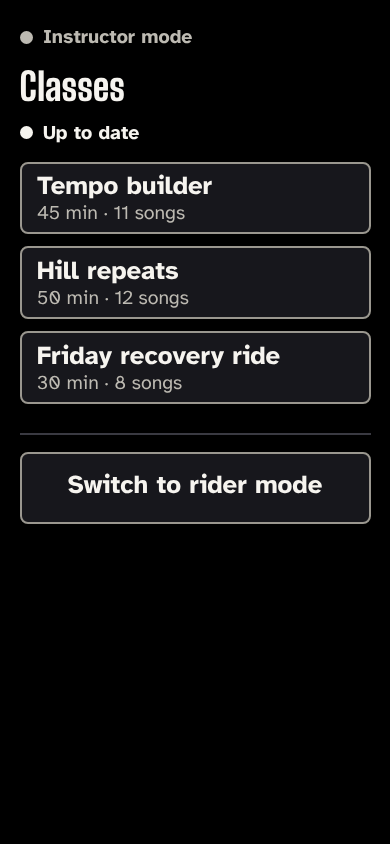
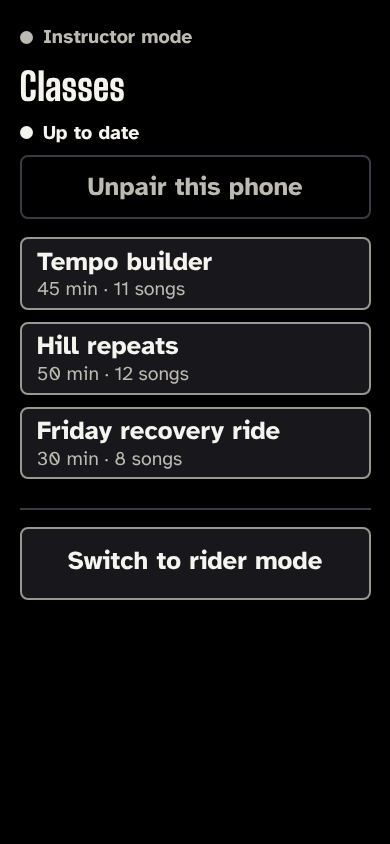
docs(design): spec as built for the pairing plates, Pair again and Unpair this phone
Record the screens #651 built: the revoked and no-server plates, the Pair again plate, the Unpair this phone key and its native question, the A8 note, and the mock-ups app-instructor-start-expired and app-unpair-ask.

Claude-Session: https://claude.ai/code/session_01LLHBh3xazuKpSV1STS2mcZ

diff --git a/docs/design/mockups/app-pages.js b/docs/design/mockups/app-pages.js
@@ -47,13 +47,25 @@ add('no-lock', 'app-modes.md', 'App: a screen lock is needed', 'State: "Switch t
 
 const CLASSES = [['Tempo builder', '45 min · 11 songs'], ['Hill repeats', '50 min · 12 songs'], ['Friday recovery ride', '30 min · 8 songs']];
 const row = ([t, f]) => `<button class="key row" data-action="open_class"><span class="kl" data-tier="minor" data-lines="2">${A.esc(t)}</span><span class="kh" data-tier="label">${A.esc(f)}</span></button>`;
-add('instructor-start', 'app-modes.md', 'App: instructor mode', 'State: instructor mode after the screen lock, the class list (class-list.md, laid out for the phone) and the mode strip. No strip while a class is open.',
-  page(mode('Instructor mode') + h1('Classes') + `<div class="status">${T('label', 'Up to date', 1, ' class="ok"')}</div>`,
+// "Unpair this phone": an outlined key (64 px high, words at --c-minor) on the status row.
+const unpairKey = '<button class="key quiet" data-action="unpair"><span class="kl" data-tier="minor" data-lines="2">Unpair this phone</span></button>';
+add('instructor-start', 'app-modes.md', 'App: instructor mode', 'State: instructor mode after the screen lock, the class list (class-list.md, laid out for the phone) and the mode strip. "Unpair this phone" is on the status row. No strip while a class is open.',
+  page(mode('Instructor mode') + h1('Classes') + `<div class="status">${T('label', 'Up to date', 1, ' class="ok"')}${unpairKey}</div>`,
+    `<div class="rows">${CLASSES.map(row).join('')}</div>` + strip('Switch to rider mode')));
+
+// The pairing ran out (class-list.md "Pairing ran out"): the plate stands in for the status line.
+add('instructor-start-expired', 'app-modes.md', 'App: instructor mode, pairing ran out', 'State: the saved classes stay; the server said the token expired. The plate carries the words and "Pair again"; the status line is hidden. At 360x640 with three classes the page may scroll (A8).',
+  page(mode('Instructor mode') + h1('Classes') + `<div class="status">${unpairKey}</div>`
+    + plate('The pairing has run out', 'Pair again to get new and changed classes. Saved classes still play.').replace(/<\/div>$/, key('pair_again', 'Pair again') + '</div>'),
     `<div class="rows">${CLASSES.map(row).join('')}</div>` + strip('Switch to rider mode')));
 
 add('to-rider-ask', 'app-modes.md', 'App: switch to rider mode?', 'State: "Switch to rider mode" pressed in instructor mode. Native question; "Stay" has the focus. Back or no answer is "Stay".',
   native(page(mode('Instructor mode') + h1('Switch to rider mode?') + p('The class list closes and the music is no longer followed. Coming back to instructor mode needs your screen lock.'),
     duo(key('stay', 'Stay', { main: true }), key('switch_mode', 'Switch')).replace('class="key main"', 'class="key main focus"'))));
+
+add('unpair-ask', 'app-modes.md', 'App: unpair this phone?', 'State: "Unpair this phone" pressed in instructor mode. Native question; "Stay" has the focus. Back or leaving the app is "Stay". "Unpair" removes the saved classes and goes to the switching screen, then rider mode.',
+  native(page(mode('Instructor mode') + h1('Unpair this phone?') + p('The classes saved on this phone are removed and instructor mode closes. Teaching from it again needs a new pairing.'),
+    duo(key('stay', 'Stay', { main: true }), key('unpair', 'Unpair')).replace('class="key main"', 'class="key main focus"'))));
 
 add('switching', 'app-modes.md', 'App: switching to rider mode', 'State: "Switch" pressed. Native screen while the follower stops, the connections close and the web view reloads fresh (ADR 0011 section 1). Under a second.',
   native(page(mode('Rider mode') + h1('Switching to rider mode') + work('Closing instructor mode'), '')));

diff --git a/docs/design/mockups/app-instructor-start.html b/docs/design/mockups/app-instructor-start.html
@@ -10,7 +10,7 @@
 <link rel="stylesheet" href="app.css">
 </head>
 <body class="app">
-<!-- State: instructor mode after the screen lock, the class list (class-list.md, laid out for the phone) and the mode strip. No strip while a class is open.  Spec: docs/design/app-modes.md. Generated by app-pages.js: edit that, not this file. -->
-<main class="page"><div class="lead"><p class="mode"><span data-tier="label" data-lines="1">Instructor mode</span></p><h1><span data-tier="value" data-lines="2">Classes</span></h1><div class="status"><span data-tier="label" data-lines="1" class="ok">Up to date</span></div></div><div class="act"><div class="rows"><button class="key row" data-action="open_class"><span class="kl" data-tier="minor" data-lines="2">Tempo builder</span><span class="kh" data-tier="label">45 min · 11 songs</span></button><button class="key row" data-action="open_class"><span class="kl" data-tier="minor" data-lines="2">Hill repeats</span><span class="kh" data-tier="label">50 min · 12 songs</span></button><button class="key row" data-action="open_class"><span class="kl" data-tier="minor" data-lines="2">Friday recovery ride</span><span class="kh" data-tier="label">30 min · 8 songs</span></button></div><nav class="strip" aria-label="Mode"><button class="key full" data-action="switch_mode"><span class="kl" data-tier="minor" data-lines="2">Switch to rider mode</span></button></nav></div></main>
+<!-- State: instructor mode after the screen lock, the class list (class-list.md, laid out for the phone) and the mode strip. "Unpair this phone" is on the status row. No strip while a class is open.  Spec: docs/design/app-modes.md. Generated by app-pages.js: edit that, not this file. -->
+<main class="page"><div class="lead"><p class="mode"><span data-tier="label" data-lines="1">Instructor mode</span></p><h1><span data-tier="value" data-lines="2">Classes</span></h1><div class="status"><span data-tier="label" data-lines="1" class="ok">Up to date</span><button class="key quiet" data-action="unpair"><span class="kl" data-tier="minor" data-lines="2">Unpair this phone</span></button></div></div><div class="act"><div class="rows"><button class="key row" data-action="open_class"><span class="kl" data-tier="minor" data-lines="2">Tempo builder</span><span class="kh" data-tier="label">45 min · 11 songs</span></button><button class="key row" data-action="open_class"><span class="kl" data-tier="minor" data-lines="2">Hill repeats</span><span class="kh" data-tier="label">50 min · 12 songs</span></button><button class="key row" data-action="open_class"><span class="kl" data-tier="minor" data-lines="2">Friday recovery ride</span><span class="kh" data-tier="label">30 min · 8 songs</span></button></div><nav class="strip" aria-label="Mode"><button class="key full" data-action="switch_mode"><span class="kl" data-tier="minor" data-lines="2">Switch to rider mode</span></button></nav></div></main>
 </body>
 </html>

diff --git a/docs/design/mockups/app-instructor-start-expired.html b/docs/design/mockups/app-instructor-start-expired.html
@@ -1,0 +1,16 @@
+<!doctype html>
+<html lang="en">
+<head>
+<meta charset="utf-8">
+<meta name="viewport" content="width=device-width, initial-scale=1, viewport-fit=cover">
+<title>App: instructor mode, pairing ran out</title>
+<link rel="stylesheet" href="tokens.css">
+<link rel="stylesheet" href="companion.css">
+<link rel="stylesheet" href="rider.css">
+<link rel="stylesheet" href="app.css">
+</head>
+<body class="app">
+<!-- State: the saved classes stay; the server said the token expired. The plate carries the words and "Pair again"; the status line is hidden. At 360x640 with three classes the page may scroll (A8).  Spec: docs/design/app-modes.md. Generated by app-pages.js: edit that, not this file. -->
+<main class="page"><div class="lead"><p class="mode"><span data-tier="label" data-lines="1">Instructor mode</span></p><h1><span data-tier="value" data-lines="2">Classes</span></h1><div class="status"><button class="key quiet" data-action="unpair"><span class="kl" data-tier="minor" data-lines="2">Unpair this phone</span></button></div><div class="plate" role="alert"><span data-tier="minor" data-lines="2" class="h">The pairing has run out</span><span data-tier="label" data-lines="4" class="dt">Pair again to get new and changed classes. Saved classes still play.</span><button class="key" data-action="pair_again"><span class="kl" data-tier="minor" data-lines="2">Pair again</span></button></div></div><div class="act"><div class="rows"><button class="key row" data-action="open_class"><span class="kl" data-tier="minor" data-lines="2">Tempo builder</span><span class="kh" data-tier="label">45 min · 11 songs</span></button><button class="key row" data-action="open_class"><span class="kl" data-tier="minor" data-lines="2">Hill repeats</span><span class="kh" data-tier="label">50 min · 12 songs</span></button><button class="key row" data-action="open_class"><span class="kl" data-tier="minor" data-lines="2">Friday recovery ride</span><span class="kh" data-tier="label">30 min · 8 songs</span></button></div><nav class="strip" aria-label="Mode"><button class="key full" data-action="switch_mode"><span class="kl" data-tier="minor" data-lines="2">Switch to rider mode</span></button></nav></div></main>
+</body>
+</html>

diff --git a/docs/design/mockups/app-unpair-ask.html b/docs/design/mockups/app-unpair-ask.html
@@ -1,0 +1,16 @@
+<!doctype html>
+<html lang="en">
+<head>
+<meta charset="utf-8">
+<meta name="viewport" content="width=device-width, initial-scale=1, viewport-fit=cover">
+<title>App: unpair this phone?</title>
+<link rel="stylesheet" href="tokens.css">
+<link rel="stylesheet" href="companion.css">
+<link rel="stylesheet" href="rider.css">
+<link rel="stylesheet" href="app.css">
+</head>
+<body class="app">
+<!-- State: "Unpair this phone" pressed in instructor mode. Native question; "Stay" has the focus. Back or leaving the app is "Stay". "Unpair" removes the saved classes and goes to the switching screen, then rider mode.  Spec: docs/design/app-modes.md. Generated by app-pages.js: edit that, not this file. -->
+<main data-layer="native" class="page"><div class="lead"><p class="mode"><span data-tier="label" data-lines="1">Instructor mode</span></p><h1><span data-tier="value" data-lines="2">Unpair this phone?</span></h1><p><span data-tier="minor" data-lines="6">The classes saved on this phone are removed and instructor mode closes. Teaching from it again needs a new pairing.</span></p></div><div class="act"><div class="duo"><button class="key main focus" data-action="stay"><span class="kl" data-tier="minor" data-lines="2">Stay</span></button><button class="key" data-action="unpair"><span class="kl" data-tier="minor" data-lines="2">Unpair</span></button></div></div></main>
+</body>
+</html>

diff --git a/docs/design/mockups/app.css b/docs/design/mockups/app.css
@@ -42,6 +42,11 @@
 .status { display: flex; align-items: center; gap: 0.6em; font-size: var(--c-label); }
 .status .ok { color: var(--light-1); font-weight: 700; display: inline-flex; align-items: center; gap: 0.5em; }
 .status .ok::before { content: ""; width: 0.7em; height: 0.7em; border-radius: 50%; background: var(--light-1); flex: none; }
+/* "Unpair this phone": an outlined key, at least 64 px high, words at --c-minor. Upright it has its
+   own full-width line; sideways it sits at the end of the status row. */
+.status .key.quiet { margin-left: auto; flex: none; width: auto; white-space: nowrap; min-height: 64px; padding: 0 1em; background: transparent; border-color: var(--stage-line); }
+@media (orientation: portrait) { .status { flex-wrap: wrap; } .status .key.quiet { flex: 1 0 100%; margin-left: 0; } }
+.status .key.quiet .kl { font-size: var(--c-minor); font-weight: 700; color: var(--light-2); }
 /* A status line in the minor tier (pair-done). */
 .status.m { font-size: var(--c-minor); }
 

diff --git a/docs/design/mockups/app-checks.js b/docs/design/mockups/app-checks.js
@@ -25,7 +25,7 @@ function pageChecks(arg) {
   const KEY_MIN = 64, KEY_GAP = 12;
   // Every action the app's screens have. None sends an equipment command (rule 2); the rider's
   // send nothing but the join (ADR 0007 section 1). Nothing scans or opens the camera (rule 12).
-  const ACTIONS = ['switch_mode', 'stay', 'set_lock', 'stay_rider', 'open_class', 'cancel', 'open_site', 'continue', 'pair_again',
+  const ACTIONS = ['switch_mode', 'stay', 'set_lock', 'stay_rider', 'open_class', 'cancel', 'open_site', 'continue', 'pair_again', 'unpair',
     'open_setting', 'not_now', 'follow', 'join', 'remember', 'leave', 'keep_riding', 'start', 'pause', 'resume', 'previous', 'next', 'end'];
   const BANNED = /scan|camera|qr/i;
   const rows = [];

diff --git a/docs/design/app-modes.md b/docs/design/app-modes.md
@@ -3,7 +3,7 @@
 Status: proposed in the pull request for issue #628, for [ADR 0011](../adr/0011-the-phone-app-is-built-with-capacitor.md)
 section 1 (one app, two modes). Overview, sizes and checks: [app.md](app.md). Mock-ups:
 `mockups/app-rider-start*.html`, `app-lock-cancelled.html`, `app-no-lock.html`, `app-instructor-start.html`,
-`app-to-rider-ask.html`, `app-switching.html`, `app-switching-instructor.html`, and their `-390x844.png` and `-844x390.png` shots.
+`app-instructor-start-expired.html`, `app-to-rider-ask.html`, `app-unpair-ask.html`, `app-switching.html`, `app-switching-instructor.html`, and their `-390x844.png` and `-844x390.png` shots.
 
 ## Purpose
 
@@ -50,8 +50,22 @@ are long are stacked, the main one first.
 | Screen lock cancelled, failed or locked out | `app-lock-cancelled` | Back on the rider start page, a white plate "Still in rider mode / Instructor mode opens only after your screen lock." Nothing changed. Android's own prompt already says when the screen lock is locked for now, and returns the same answer as a cancel, so a lockout shows this plate too (there is no separate "Too many tries" plate). The plate goes when the user types or presses anything |
 | No screen lock on a paired phone | `app-no-lock` | Native screen. Title "A screen lock is needed", why, and a note that the classes and the pairing stay locked away on the phone. Keys "Set a screen lock" (opens Android's security settings) and "Stay in rider mode". Coming back with a lock set opens the screen-lock prompt; coming back without one shows this screen again |
 | Instructor mode | `app-instructor-start` | Mode tag, "Classes", the status line ("Up to date", or class-list.md's other sync states), one key per class (title, then length and song count), the strip "Switch to rider mode" |
+| Pairing ran out | `app-instructor-start-expired` | The list as above, with a white plate in place of the status line: "The pairing has run out / Pair again to get new and changed classes. Saved classes still play." and its key "Pair again" (main wording of class-list.md, no e-mail on the phone). The status line is **hidden while a plate shows**. "Pair again" opens the native pairing screens (app-pairing.md); on success the list is read anew. Saved classes still open |
+| Unpair this phone? | `app-unpair-ask` | Native question, title "Unpair this phone?", text "The classes saved on this phone are removed and instructor mode closes. Teaching from it again needs a new pairing." Keys "Stay" (main, has the focus) and "Unpair". Back, or leaving the app, is "Stay" and changes nothing. "Unpair": the token and saved classes are deleted here first, then the server is asked to drop the record; the result is the switching screen to rider mode (`app-switching`). "Stay": back on the class list as it was |
 | Switch to rider mode? | `app-to-rider-ask` | Native question. "The class list closes and the music is no longer followed. Coming back to instructor mode needs your screen lock." Keys "Stay" (main, has the focus) and "Switch". Back, or leaving the app, is "Stay" |
 | Switching | `app-switching`, `app-switching-instructor` | Native, under a second: mode tag "Rider mode", "Switching to rider mode", the working marker with "Closing instructor mode". Native code stops the follower, closes every connection, drops the instructor state and reloads the page fresh; only then the rider start page shows (ADR 0011 section 1). To instructor mode, after the screen lock passed: mode tag "Instructor mode", "Switching to instructor mode", the working marker with "Closing rider mode"; native code drops the rider's numbers and the web view's storage, then loads the class list fresh. The same layout, rules and timing |
+
+**"Unpair this phone".** On the instructor start page, always present while the page shows: an
+outlined key (transparent, a `--stage-line` border) at least 64 px high (A6), its words at
+`--c-minor` in `--light-2` on the stage, about 11 : 1 (A1, A4). Upright, it has its own full-width
+line under the status line; sideways, it sits at the end of the status row. It is a key of the page, not a
+class row and not the strip, and it only asks: the native question above decides. Measured at
+466c2ba (the "Pair again" and "Unpair this phone" pull request, #651): with up to date and three classes, every strip key fits inside the
+window with no scroll at 390x844, 844x390, 360x780, 360x640 and 640x360.
+
+**A8 note.** The instructor start page may scroll once the list outgrows the window. Up to date
+with three classes must fit at all six sizes. With the "Pair again" plate and three classes at
+360x640 the page runs 25 px over (strip key bottom 665, window 640) and scrolls; that is allowed.
 
 Where the app starts: in the last mode used; on a first launch, in rider mode. A restart in rider
 mode never skips the screen lock. Instructor mode with a class open stays on the class; Back on the
@@ -70,7 +84,7 @@ animate; it is replaced as soon as the rider page has loaded.
   sentence.
 - The screen lock is "your screen lock" (Android's own term), never "PIN" alone or "password".
 - Keys say what happens: "Switch to instructor mode", "Switch", "Stay", "Set a screen lock",
-  "Stay in rider mode".
+  "Stay in rider mode", "Pair again", "Unpair this phone", "Unpair".
 
 ## Rules (plan section 3)
 

diff --git a/docs/design/app-pairing.md b/docs/design/app-pairing.md
@@ -45,7 +45,7 @@ The code never wraps and never shrinks below the value floor; at 360 px wide it 
 | The code | `app-pair-code` | As above, 9:41 left |
 | The code, no screen lock | `app-pair-code-no-lock` | The same with a grey note: "This phone has no screen lock. Instructor mode will need one: set it before or after pairing." Pairing goes on |
 | Back from the browser, not yet confirmed | `app-pair-waiting` | The working line "Not yet confirmed on the website" above the code; the main key becomes "Open the page again" |
-| Paired | `app-pair-done` | "This phone is paired", the status line "Paired as <account e-mail>", "Confirm your screen lock to open instructor mode.", and "Continue", which opens the screen-lock prompt (or app-modes.md's no-lock screen) |
+| Paired | `app-pair-done` | "This phone is paired", the status line "Paired as <account e-mail>", "Confirm your screen lock to open instructor mode.", and "Continue", which opens the screen-lock prompt (or app-modes.md's no-lock screen). Reached from "Pair again" in instructor mode, the screen has **no screen-lock line**: the phone is already in instructor mode, so "Continue" returns to the class list |
 | Refused | `app-pair-denied` | A white plate "Refused on the website. / Nothing was kept on this phone." Keys "Rider mode" and "Start again" (main) |
 | Code ran out | `app-pair-code-expired` | Plate "The code ran out. / It was not confirmed in time. Start again for a new code." Same keys |
 | Server unreachable | `app-pair-unreachable` | Plate "The server could not be reached. / Check the connection, then start again." Same keys |
@@ -53,7 +53,8 @@ The code never wraps and never shrinks below the value floor; at 360 px wide it 
 | Too many pairings | `app-pair-too-many` | Plate "Too many pairings were started. / Try again in an hour." (the desktop's `too_many`, from this network). Same keys as Refused; "Start again" asks again, and the server may still refuse until the hour has passed |
 | Answer not understood | `app-pair-unexpected` | Plate "The answer was not understood. / The app could not read the server's answer. Try again later." (the desktop's `unexpected`). Same keys as Refused. Nothing was kept |
 | Pairing could not be kept | `app-pair-save-failed` | Plate "The pairing could not be kept. / The Android Keystore did not keep it, so the pairing was undone. Start again." (the desktop's `save_failed`; the app asks the server to drop the record it made). Same keys as Refused |
-| Unpaired on the website | `app-pair-revoked` | Shown at the next start in instructor mode, or at once if the app is open, after a 401 that means the device was removed: plate "Unpaired on the website. / The classes saved on this phone were removed." Same keys as Refused |
+| Unpaired on the website | `app-pair-revoked` | Plate "Unpaired on the website. / The classes saved on this phone were removed." Same keys as Refused. Instructor mode closes to rider mode **at once, with no plate**. The plate shows when pairing next opens **in the same run**, and only "Start again" begins then. A plate that was shown is cleared and is not shown again. It is not kept across a restart (the next pairing opens on "Asking for a code") |
+| Server unreachable, no server address | `app-pair-unreachable` | A release built with no server address (the build's `NO_SERVER`) shows the same plate as Server unreachable. "Start again" cannot succeed there: it shows the plate again until a build with an address is installed |
 
 The desktop's `no_server` ("no server address is set") and `unpaired` ("no longer paired")
 notices have no phone state, on purpose. The app's server address is fixed in the native build (ADR 0011 section 3), so there

diff --git a/docs/design/app.md b/docs/design/app.md
@@ -12,7 +12,7 @@ system: [system.md](system.md). This file is the overview; each screen group has
 | [app-rider-join.md](app-rider-join.md) | The rider's join in the app: the class code, the nickname, errors and leaving |
 | [app-room-display.md](app-room-display.md) | The room view on an external display |
 
-Reference mock-ups and screenshots: [mockups/](mockups/), files `app-*.html` (30 mock-ups,
+Reference mock-ups and screenshots: [mockups/](mockups/), files `app-*.html` (35 mock-ups,
 generated by [app-pages.js](mockups/app-pages.js) from [app-kit.js](mockups/app-kit.js), styled by
 [app.css](mockups/app.css) and [app-room.css](mockups/app-room.css) on top of the rider page's and
 `/play`'s styles) and `app-*-<w>x<h>.png`. **Where a mock-up and the text differ, the text wins.**
